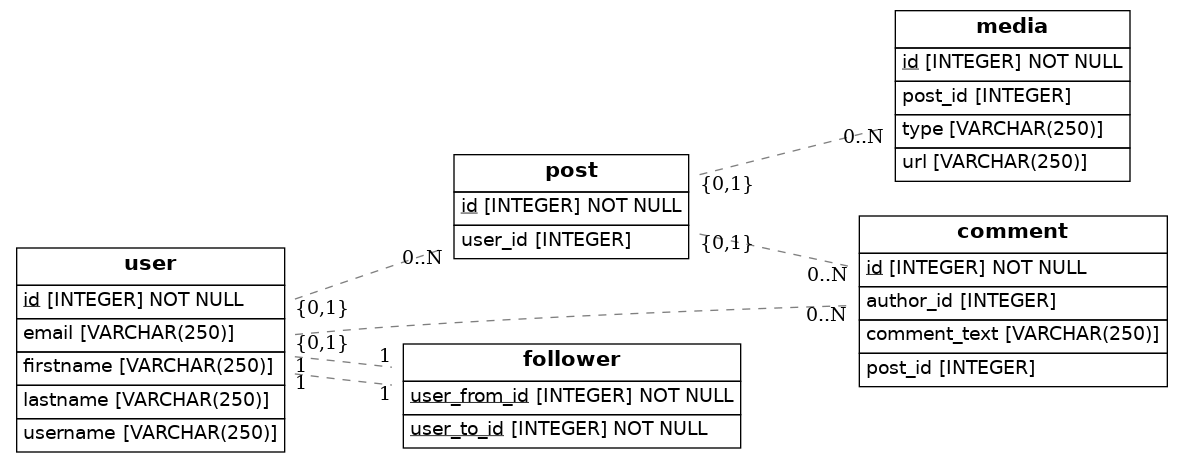
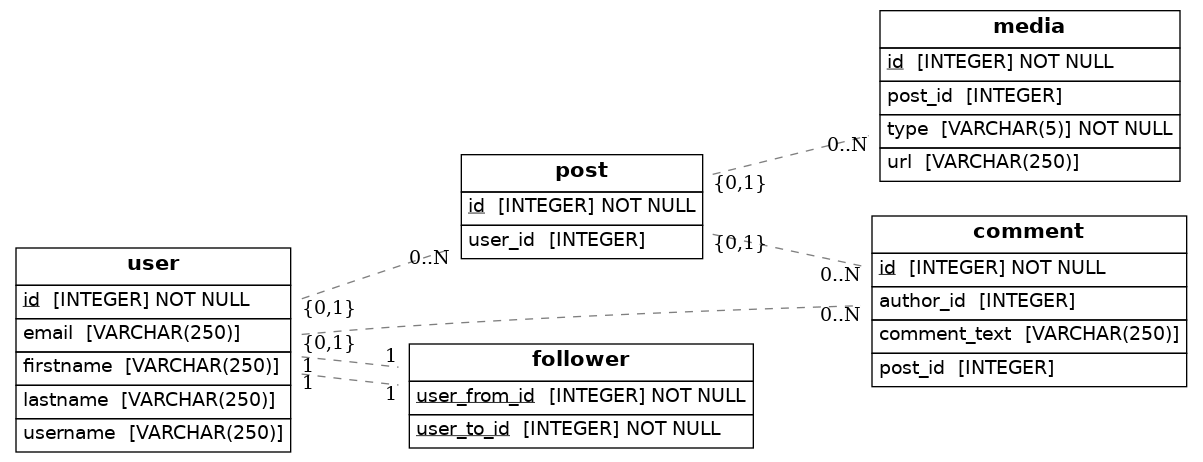
instagram data modeling Dorian

diff --git a/src/models.py b/src/models.py
@@ -1,11 +1,15 @@
 import os
 import sys
+import enum 
 from sqlalchemy import Column, ForeignKey, Integer, String
 from sqlalchemy.orm import relationship, declarative_base
 from sqlalchemy import create_engine
 from eralchemy2 import render_er
+from sqlalchemy import Enum
 
 Base = declarative_base()
+class MediaType (enum.Enum):
+    image = "Image"
  
 class User(Base):
     __tablename__ = 'user'
@@ -31,7 +35,7 @@ class Comment(Base):
 class Media(Base):
     __tablename__ = 'media'
     id = Column(Integer, primary_key=True)
-    type = Column(String(250))
+    type = Column(Enum(MediaType), nullable = False)
     url = Column(String(250))
     post_id = Column(Integer) 
     post_id = Column(Integer, ForeignKey('post.id'))
